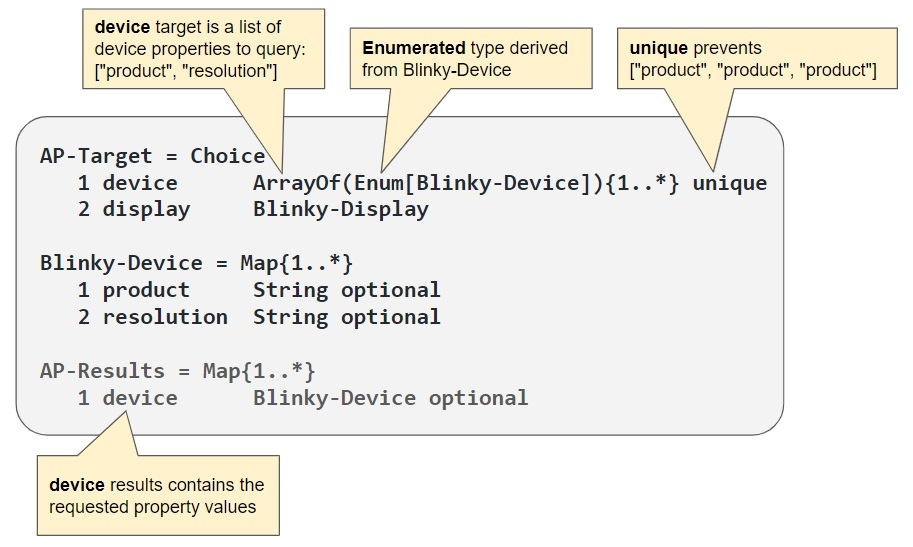
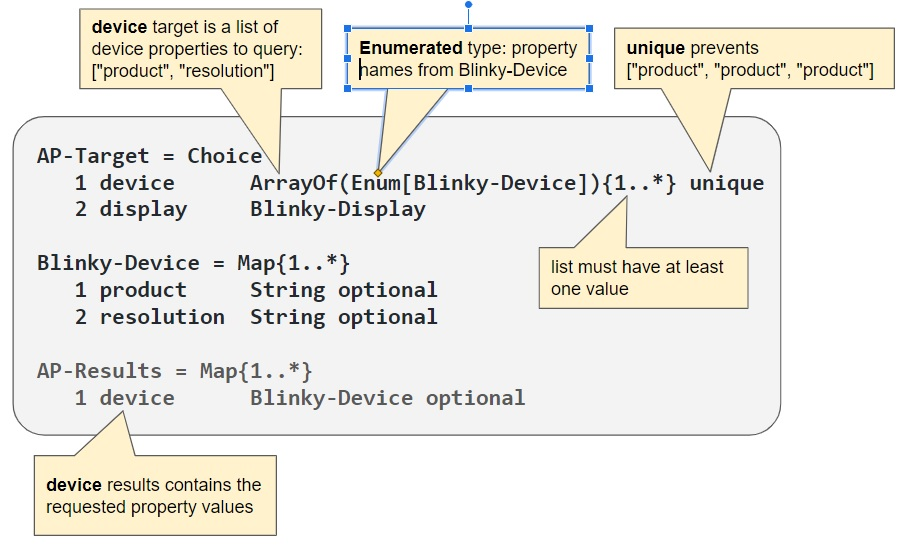
Add illustrations

Changed region(s): [[0.0, 0.0, 0.9922, 0.9982]]

diff --git a/SBOM-PoC/Schemas/blinky/blinky.md b/SBOM-PoC/Schemas/blinky/blinky.md
@@ -88,7 +88,7 @@
 
 | ID | Name | Type | # | Description |
 | ---: | :--- | :--- | ---: | :--- |
-| 1 | **device** | ArrayOf(Enum[Blinky-Device]){1..*} | 1 | Device properties to return |
+| 1 | **device** | ArrayOf(Enum[Blinky-Device]){1..*} unique | 1 | Device properties to return |
 | 2 | **display** | Blinky-Display | 1 |  |
 
 **_Type: AP-Args (Map{1..*})_**
